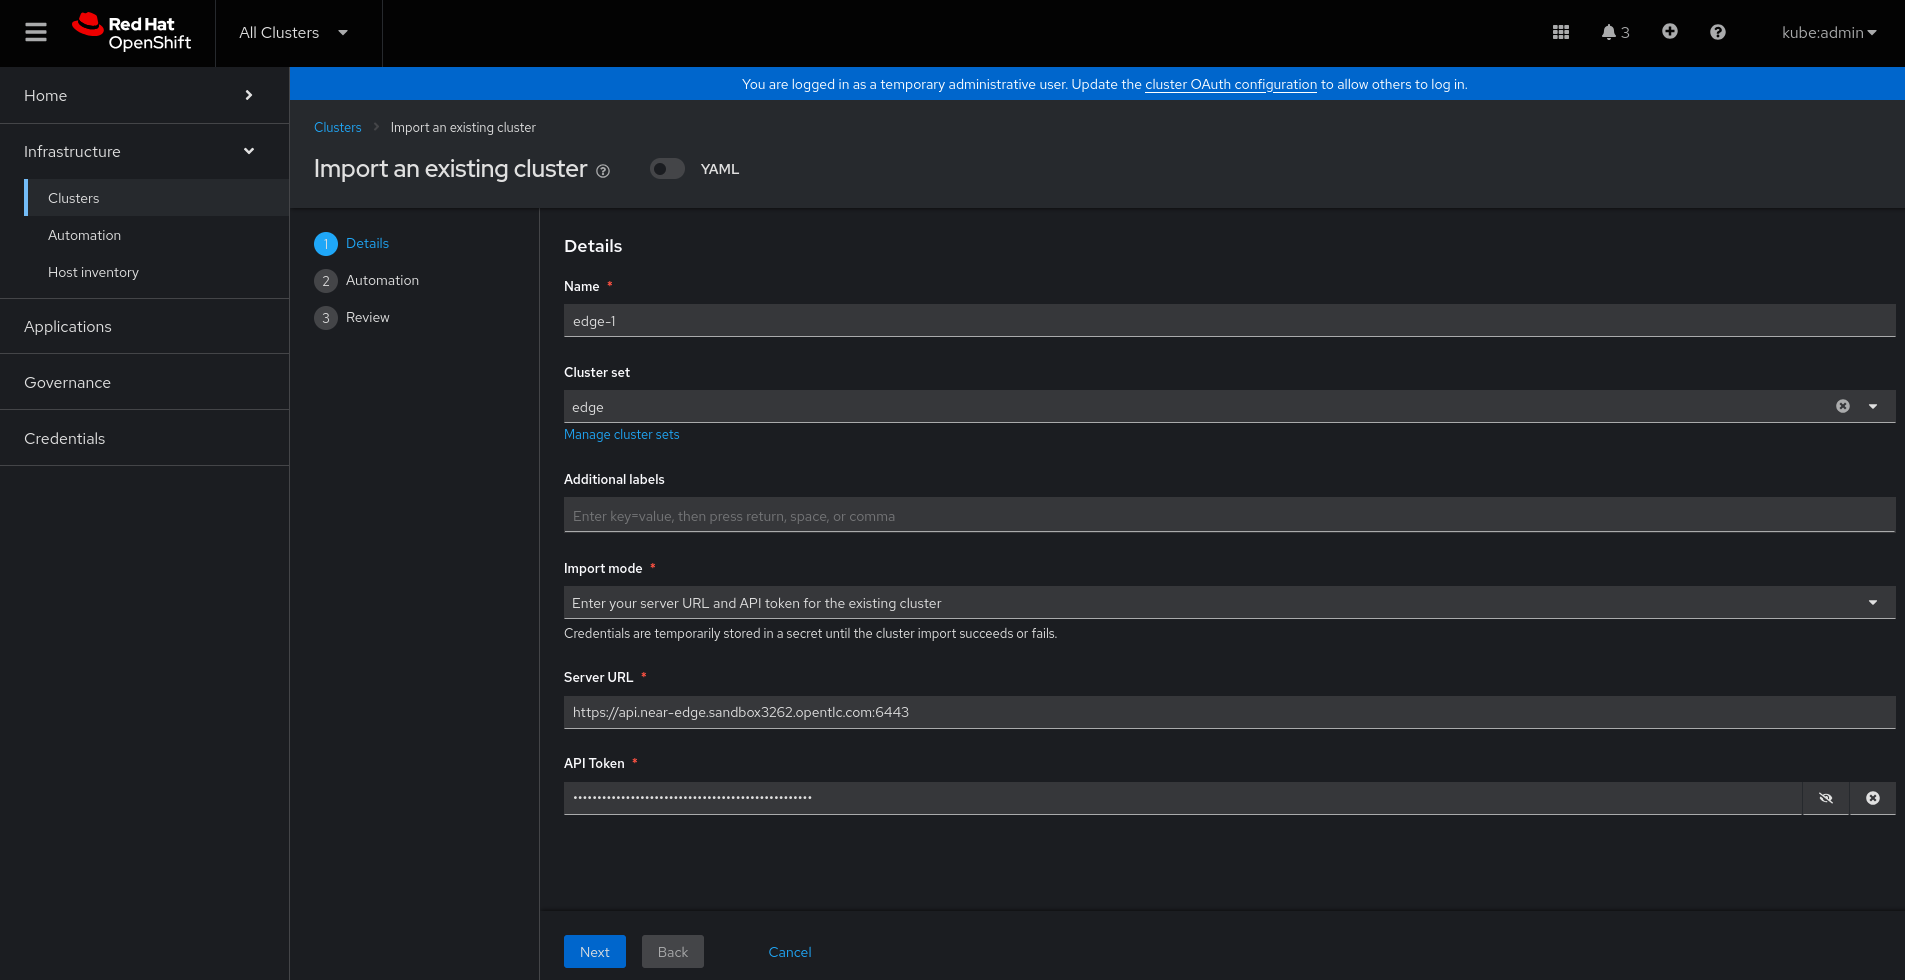
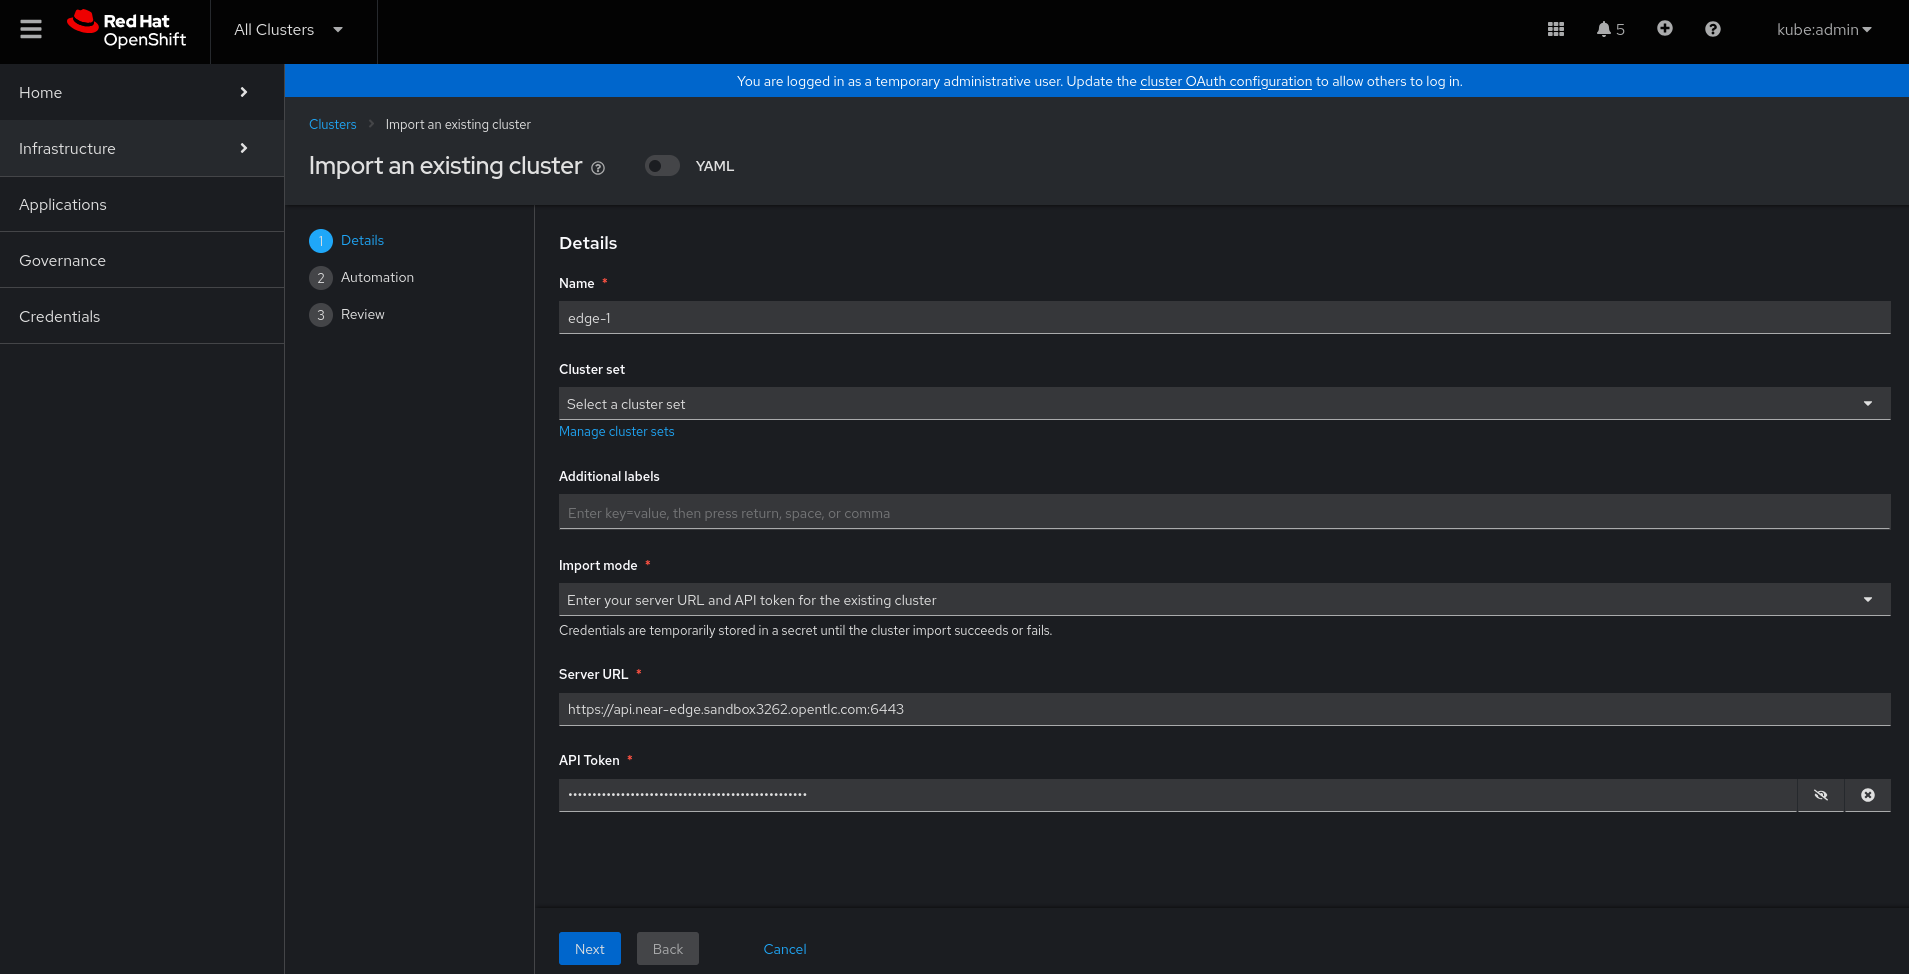
placement

diff --git a/demos/placement/doc/00-preparation.md b/demos/placement/doc/00-preparation.md
@@ -85,37 +85,13 @@ Now you can deploy the components needed by your demo and apply the required con
 
 ## Post-deployment Walkthrough
 
-After the environment and demo bootstrap you will have:
-
-* The Advanced Cluster Management and the Arco CD Controller ready in your OpenShift Hub Cluster. 
-* A couple of `ClusterSets` have been pre-defined in ACM, "cloud" and "edge". Those will be used during the Placement API demo section.
-
-
-
-
-
+After the environment and demo bootstrap you will have the Advanced Cluster Management and the Arco CD Controller ready in your OpenShift Hub Cluster.
 
 If you open the ACM console ("All-Cluster" in the dropdown menu of the top left corner in the OpenShift console) and go to "Infrsatructure", you can see how you have the default `local-cluster` but checking the "ClusterSets" tab you will see that, for this demo, a couple of `ClusterSets` have been pre-defined in ACM, "cloud" and "edge". Those will be used during the Placement API demo section.
 
 In the Argo CD UI (you can open it by clicking on the squares on the top right on the OpenShift Console), you can check that you have two Argo CD applications already created. The `advanced-cluster-management` application deployed ACM in your Hub Cluster, and the `bootstrap-demo-placement` prepared the environment for the demo (ie. creating the already mentioned `ClusterSets` and more).
 
-
-
-
-default clusterset para argo
-
-
-
-
-
-
-
-
-
-
-In addition, now you should have one or more additional OpenShift clusters ready to be used during the demo steps.
-
-
+If you are interested on the objects generated during the demo bootstrap, you can open the `bootstrap-demo-placement` Application in the Argo CD UI. You will see how there are other useful objects, such as the `GitOpsCluster` manifest that automatically creates the clusters in Argo CD when the clusters are imported in ACM, so you can skip that step during the demo steps.
 
 
 ## Importing Edge OpenShift Clusters
@@ -136,28 +112,20 @@ Personally I find the server URL and API token the most straighforward since you
 3. Click on "Copy login command" and then "Display token"
 4. Copy the `token` and `server` parameters
 
+With that info you can proceed to import the cluster:
+
+1. Open the ACM UI by selecting "All Clusters" in the dropdown menu on the top left corner of the OpenShift Hub cluster
+2. Go to Infrastructure > Clusters and click on the "Import Cluster" button. 
+3. Fill the form. Be sure that you **you name the new cluster as "edge-1"**, since the APP environment variables are prepared for that cluster name, otherwhise you will need to modify the Helm variables during the demo steps.
+
+![](images/00-import-cluster.png)
+
+4. Click "Next" a couple of times and wait for the cluster to be in Ready state
 
 
 
 
 
-
-
-
-
-
-
-
-
-
-
-
-
-With that info you can proceed to import the cluster. Be sure that you select the "edge" `ClusterSet` and **you name it as "edge-1"**, since the APP environment variables are prepared for that cluster name, otherwhise you will need to modify the Helm variables during the demo steps.
-
-![](../images/00-import-cluster.png)
-
-
-
+![](images/00-import-cluster-argocd.png)
 
 

diff --git a/demos/placement/README.md b/demos/placement/README.md
@@ -44,9 +44,7 @@ In this demo, you will explore the different methods for defining where your app
 
 ### TL/DR
 
-
-point to the summary
-
+If you already know the demo details and just want a list of demo steps, you can jump into the [steps summary](doc/steps-summary.md).
 
 
 ### Demo Overview
